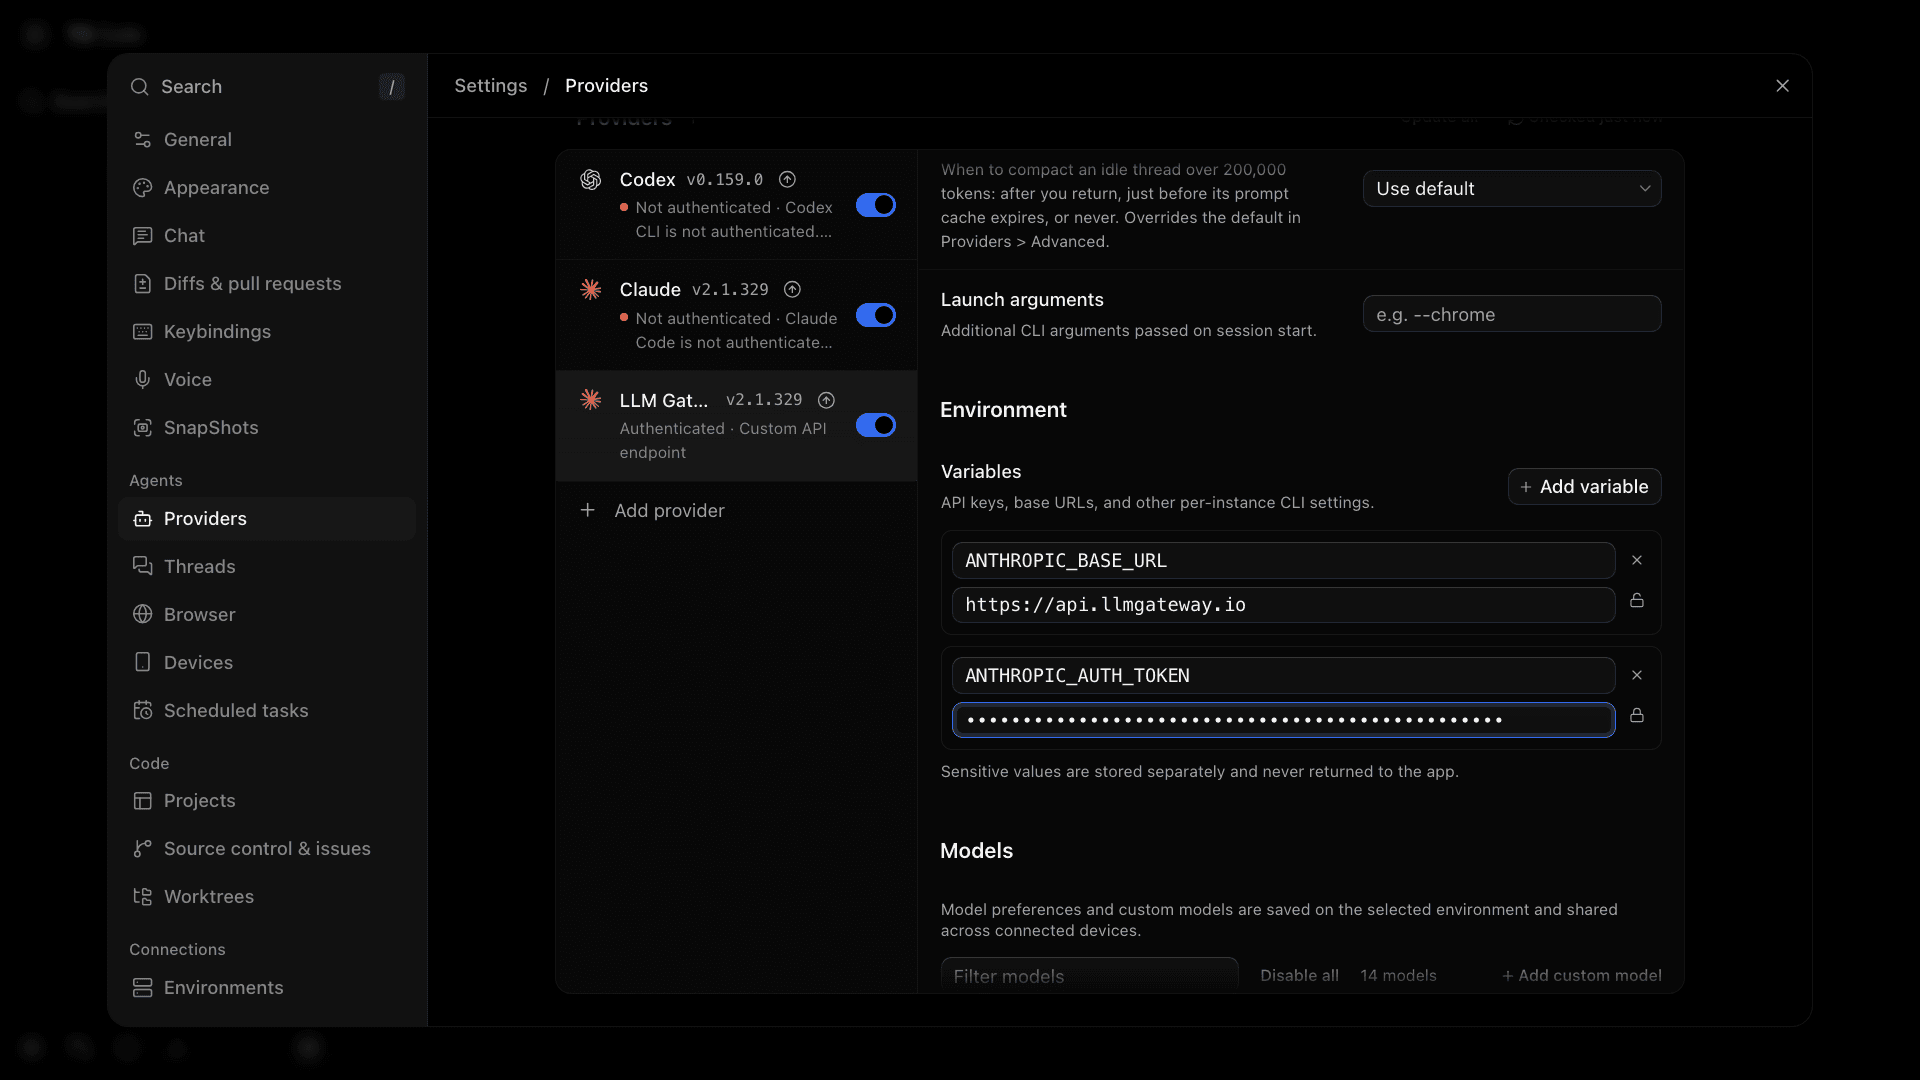
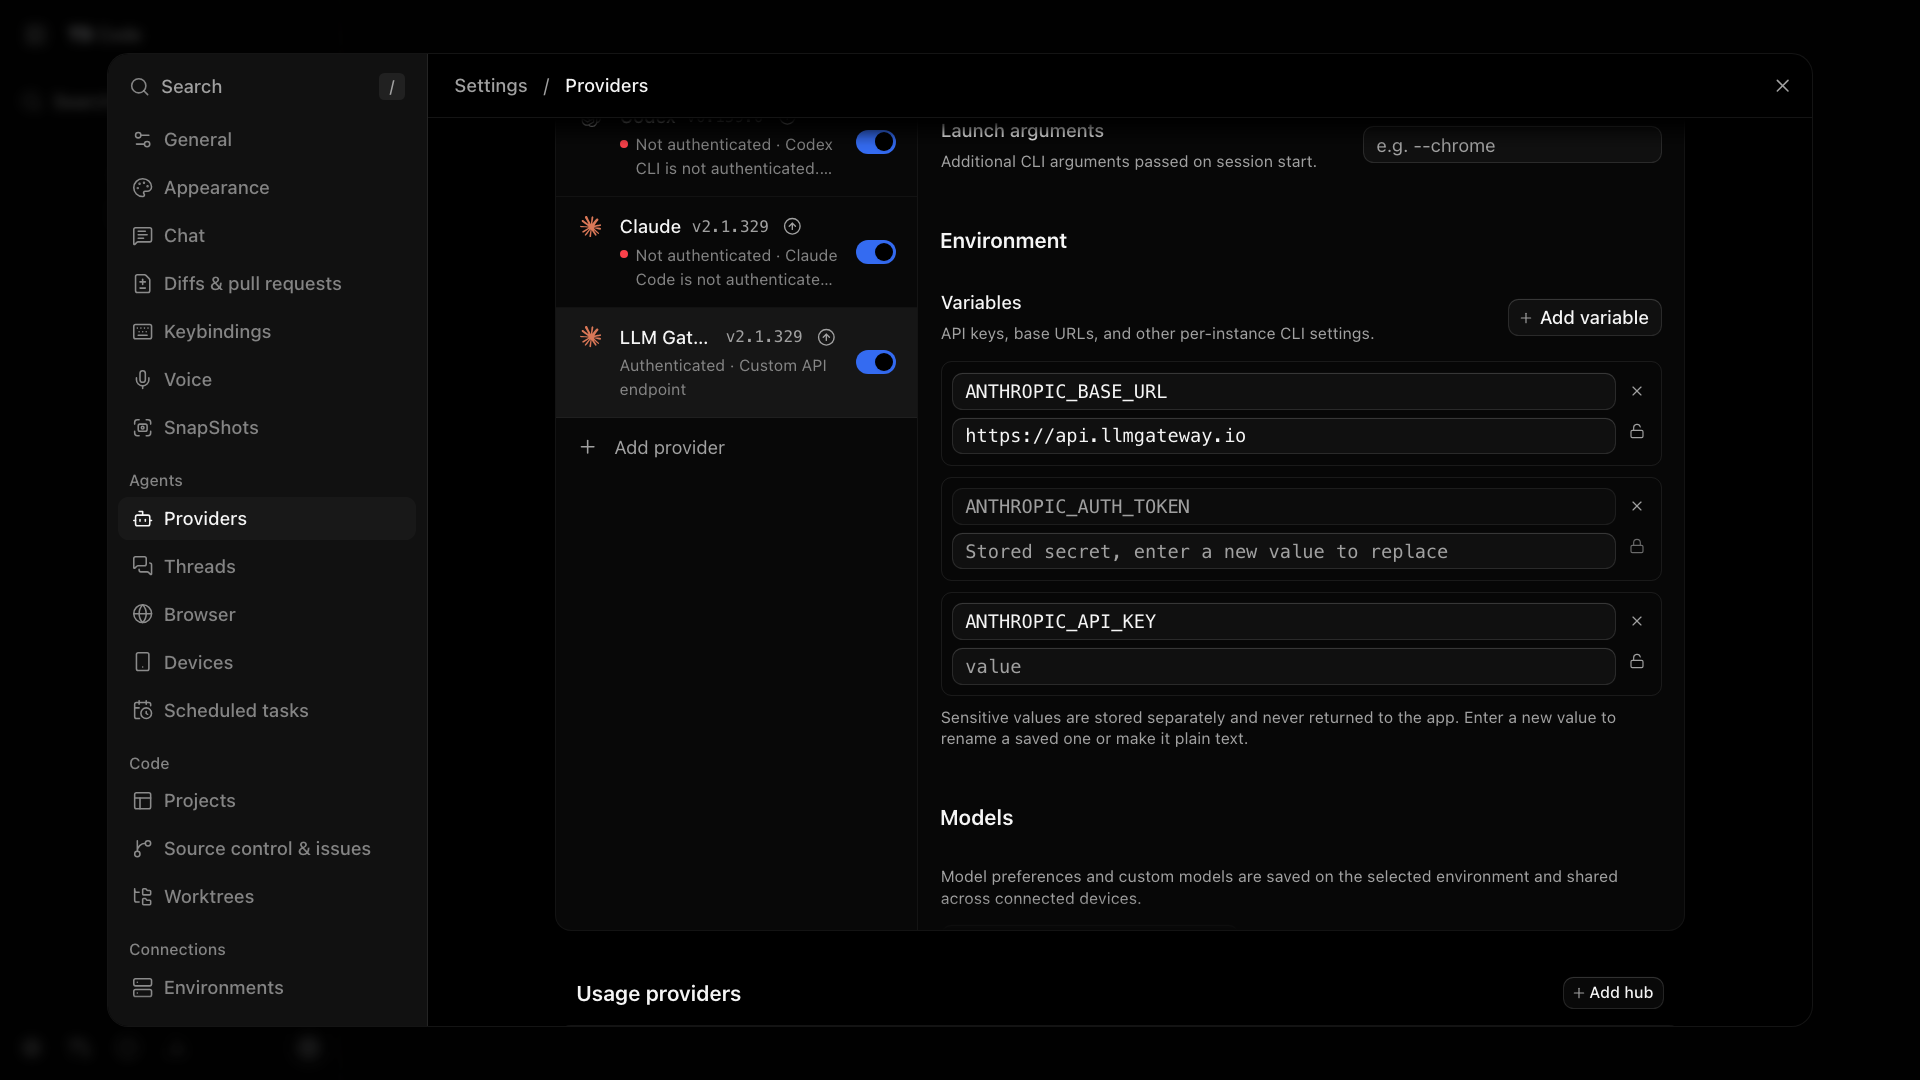
docs(guides): apply T3 Code guide review
- add the empty ANTHROPIC_API_KEY variable and a three-variable screenshot
- move the project step ahead of the model picker
- spell out the Codex setup and name the verified models
- add troubleshooting for a missing binary, an unsaved base URL, and a wrong key
- align the docs description and link text with the marketing copy

diff --git a/apps/ui/src/content/guides/t3codes.md b/apps/ui/src/content/guides/t3codes.md
@@ -7,9 +7,9 @@ description: Add an LLM Gateway provider to T3 Code, choose a model, and verify 
 date: 2026-11-21
 ---
 
-[T3 Code](https://t3.codes) is an open-source desktop, web, and mobile interface for the coding agents installed on your machine. It does not call models itself: it drives Claude Code, Codex, OpenCode, and other agents. Point one of them at LLM Gateway and every thread you start in T3 Code runs on the gateway model you choose.
+[T3 Code](https://t3.codes) is an open-source desktop, web, and mobile interface for the coding agents installed on your machine. It does not call models itself: it drives Claude Code, Codex, OpenCode, and other agents. Point one of them at LLM Gateway and every thread you start in T3 Code runs on the model you choose from the catalogue.
 
-This walkthrough was verified with T3 Code 0.1.11 and Claude Code 2.1.329: the agent read a TypeScript project, fixed a function, and ran its tests with `glm-5.2` through the gateway.
+This walkthrough was verified with T3 Code 0.1.11 and Claude Code 2.1.329: the agent read a TypeScript project, fixed a function, and ran its tests with `glm-5.2` through LLM Gateway.
 
 ## Video walkthrough
 
@@ -28,12 +28,14 @@ This walkthrough was verified with T3 Code 0.1.11 and Claude Code 2.1.329: the a
 ## Prerequisites
 
 - Install T3 Code from the&nbsp;[download page](https://t3.codes/download) or with `brew install --cask t3-code`. To try the server and web app once without installing, run `npx t3@latest`.
-- Install Claude Code using the&nbsp;[official instructions](https://code.claude.com/docs/en/setup). You do not need an Anthropic login for this setup.
+- Install Claude Code using the&nbsp;[Claude Code setup instructions](https://code.claude.com/docs/en/setup), then check `claude --version`. It is the agent this guide configures, and it needs no Anthropic login here. Codex and OpenCode are covered at the end.
 - Create an&nbsp;[LLM Gateway API key](https://docs.llmgateway.io/learn/api-keys), or use a&nbsp;[DevPass](https://devpass.llmgateway.io) plan key.
 
-## Add an LLM Gateway provider
+## Add an LLM Gateway provider to T3 Code
 
-T3 Code calls each configured agent a provider instance. Add a Claude instance that only talks to the gateway:
+In T3 Code, each configured agent is a provider instance. Add a Claude instance that only talks to LLM Gateway.
+
+On first launch, T3 Code shows a welcome page with the agents it found. If Claude is listed as **Not authenticated**, click **Start without an agent**. Then:
 
 1. Open **Settings → Providers** and click **Add provider**.
 2. Choose **Claude**, then click **Next**.
@@ -44,38 +46,41 @@ The separate config directory keeps this instance apart from any Anthropic login
 
 ## Set the endpoint and key
 
-Select the new instance, scroll to **Environment**, and add these variables with **Add variable**:
+Select the new instance, scroll to **Environment**, and click **Add variable** for each of these:
 
 | Variable               | Value                       |
 | ---------------------- | --------------------------- |
 | `ANTHROPIC_BASE_URL`   | `https://api.llmgateway.io` |
 | `ANTHROPIC_AUTH_TOKEN` | Your LLM Gateway API key    |
+| `ANTHROPIC_API_KEY`    | Leave empty                 |
 
-Use the base URL exactly as shown. Claude Code adds `/v1/messages` itself.
+Use the base URL exactly as shown. Claude Code adds `/v1/messages` itself. The empty `ANTHROPIC_API_KEY` stops an Anthropic key in your environment from overriding the LLM Gateway key.
 
-Values are sensitive by default: T3 Code stores them separately and shows **Stored secret** instead of the value afterwards. Click the lock next to a value before typing it to keep it readable, as the base URL is in the screenshot below. Leave the key sensitive.
+Values are sensitive by default: T3 Code stores them separately and shows **Stored secret** instead of the value afterwards. Leave the key sensitive. For the other two, click the lock next to the value first so they are saved as plain text, as in the screenshot below.
 
-The instance status changes to **Authenticated · Custom API endpoint**.
+The instance status changes to **Authenticated · Custom API endpoint** once the base URL is saved. The status does not check the key, so a wrong key only fails when you send a message.
 
-![An LLM Gateway Claude instance in T3 Code's provider settings with the endpoint and key variables](/images/guides/t3codes/providers.png)
+![An LLM Gateway Claude instance in T3 Code's provider settings with the three environment variables](/images/guides/t3codes/providers.png)
 
-If your shell profile exports `ANTHROPIC_API_KEY`, also add that variable with an empty value. T3 Code's router setup uses this to stop an existing key from overriding the gateway token.
+The default **Claude** instance can stay signed out. A thread uses the instance whose model you select.
 
 ## Choose a model
 
-Most of T3 Code's built-in Claude models use the same IDs as the LLM Gateway catalogue, so they route through the gateway without further setup.
+T3 Code sends its built-in Claude models by ID, and current Claude IDs match the LLM Gateway catalogue. Claude Haiku 5.5 from the built-in list passed the task in this guide without further setup.
 
-For any other model, or a built-in one the gateway rejects as unsupported, scroll to **Models** in the same instance, click **Add custom model**, and enter the exact ID from the&nbsp;[models page](https://llmgateway.io/models?features=tools), for example `glm-5.2`. Choose a model with tool support. Custom models can show fewer reasoning controls than the built-in ones.
+For any other model, or a built-in one that LLM Gateway rejects as unsupported, scroll to **Models** in the same instance, click **Add custom model**, and enter the exact ID from the&nbsp;[tool-capable models list](https://llmgateway.io/models?features=tools), for example `glm-5.2`. Custom models can have fewer effort and thinking controls than the built-in ones.
 
-In a thread, open the model picker in the composer and select a model listed under your **LLM Gateway** instance.
-
-![T3 Code's model picker with the LLM Gateway instance selected and a custom gateway model](/images/guides/t3codes/model-picker.png)
-
-> **Using DevPass?** Use a canonical model ID without an upstream provider prefix, and choose a model included in your plan. The gateway selects the serving provider for coding plans.
+> **Using DevPass?** Use a canonical model ID without an upstream provider prefix, and choose a model included in your plan. LLM Gateway selects the serving provider for coding plans.
 
 ## Try a coding task
 
-Click **Add project**, choose **Local folder**, and select your repository. Then ask for a specific fix and a way to check it:
+Click **Add project**, choose **Local folder**, and enter your repository's path. T3 Code opens a new thread for the project.
+
+Open the model picker at the bottom of the composer and select a model under your **LLM Gateway** instance. Check it before your first message: T3 Code preselects a model for new threads, which was Claude Opus 5.5 in this walkthrough.
+
+![T3 Code's model picker with the LLM Gateway instance selected and a custom model from the catalogue](/images/guides/t3codes/model-picker.png)
+
+Then ask for a specific fix and a way to check it. This prompt comes from the demo project, so replace the file and the test command with your own:
 
 ```text
 Fix slugify.ts so all tests pass. Read the files, make the smallest fix,
@@ -84,22 +89,30 @@ run node --test slugify.test.ts, and summarize. Do not edit the tests.
 
 New threads start in **Full access**, which runs commands and edits without prompts. Switch the thread to **Supervised** in the composer to approve each command and file change.
 
-When the turn finishes, click **Open diff** to review the change before you commit it. Then check the request's model, tokens, and cost in your&nbsp;[LLM Gateway dashboard](https://llmgateway.io/dashboard).
+When the turn finishes, click **Open diff** to review the change before you commit it. Then open your&nbsp;[LLM Gateway dashboard](https://llmgateway.io/dashboard), select the project that issued the key, and open **Activity** to see the request's model, tokens, and cost.
 
 ![T3 Code showing the finished thread and the diff for the fixed function](/images/guides/t3codes/verified-session.png)
 
 ## Use Codex or OpenCode instead
 
-T3 Code passes an instance's environment variables to Codex and OpenCode in the same way. We ran the task above through both, with Codex CLI 0.159.0 and OpenCode 1.18.29.
+T3 Code passes an instance's environment variables to Codex and OpenCode in the same way. The same task also passed through both, with Codex CLI 0.159.0 and OpenCode 1.18.29.
 
-- **OpenCode:** add an **OpenCode** provider and set `LLMGATEWAY_API_KEY` in its **Environment** variables. Gateway models then appear in the model picker. The&nbsp;[OpenCode guide](/guides/opencode) covers its own configuration.
-- **Codex:** add a **Codex** provider with **Configure manually**, and point the `CODEX_HOME` path at a directory whose `config.toml` contains the provider block from the&nbsp;[Codex CLI guide](/guides/codex-cli). Then set `LLMGATEWAY_API_KEY` in the instance's **Environment** variables.
+- **OpenCode:** add an **OpenCode** provider and set `LLMGATEWAY_API_KEY` in its **Environment** variables. The model picker then lists the catalogue under **LLM Gateway** and **DevPass (LLM Gateway)**. The&nbsp;[OpenCode guide](/guides/opencode) covers its own configuration.
+- **Codex:** create a directory such as `~/.codex_llmgateway` and save the provider block from the&nbsp;[Codex CLI guide](/guides/codex-cli) as `config.toml` inside it. Add a **Codex** provider, choose **Configure manually**, and set the `CODEX_HOME` path to that directory. Then set `LLMGATEWAY_API_KEY` in the instance's **Environment** variables and pick a model that exists in the catalogue. GPT-5.6 Terra from the built-in list passed the task.
 
 ## Troubleshooting
 
+### The instance shows Not found
+
+T3 Code cannot find the `claude` binary. Install Claude Code, check `claude --version` in a terminal, then click **Refresh provider status**.
+
 ### The instance shows Not authenticated
 
-Check that both variables are saved: a saved sensitive value reads **Stored secret**. Confirm that the base URL has no `/v1` suffix, then click **Refresh provider status**.
+`ANTHROPIC_BASE_URL` is missing or was not saved. Add it without a `/v1` suffix, then click **Refresh provider status**.
+
+### A thread shows Retrying provider, then a 401 error
+
+The key is wrong or revoked. The instance status does not check it. Enter a current LLM Gateway key in `ANTHROPIC_AUTH_TOKEN`, then start a new thread.
 
 ### Requests still use your Anthropic account
 
@@ -107,7 +120,7 @@ The thread is running on the default **Claude** instance. Open the model picker 
 
 ### Model not found
 
-Copy the exact ID from the&nbsp;[models page](https://llmgateway.io/models) into **Add custom model**. On DevPass, remove any upstream provider prefix.
+Copy the exact ID from the&nbsp;[model catalogue](https://llmgateway.io/models) into **Add custom model**. On DevPass, remove any upstream provider prefix.
 
 ### The agent stops early or prints raw tool-call text
 
